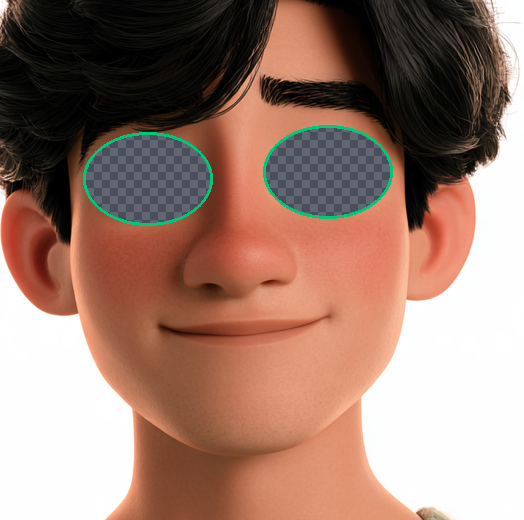
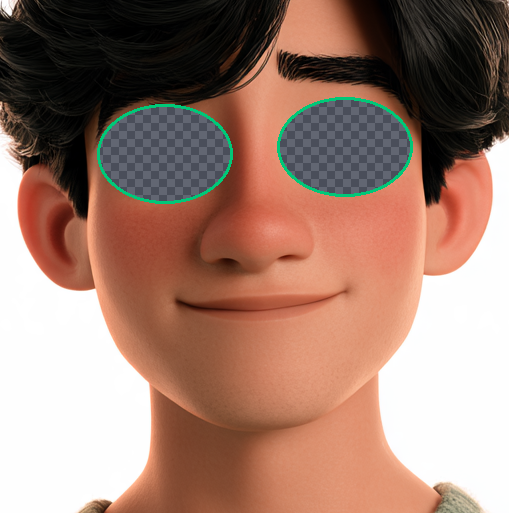
Add Rexy, a baby T. rex, and per-character voice pitch
Rexy's mouth area is two ellipses (his wide smile line and his jaw).
say() now takes a pitch, and the test page gives each character its
own pitch and speed. The erase examples show one combined outline and
crop to the character's face.

diff --git a/player/index.html b/player/index.html
@@ -41,6 +41,7 @@
     <select id="character" aria-label="Character">
       <option value="maya">Maya</option>
       <option value="mark">Mark</option>
+      <option value="rexy">Rexy</option>
     </select>
   </div>
   <div id="portrait"></div>
@@ -62,6 +63,8 @@
             line: "Kumusta ka? Ako si Maya. Hello! I'm Maya, and I'll help you practise Filipino." },
     mark: { name: "Mark", voice: /male|david|guy|mark|daniel/i,
             line: "Magandang araw! Ako si Mark. Good day! I'm Mark. Let's learn some Filipino together." },
+    rexy: { name: "Rexy", voice: /male|david|guy|mark|daniel/i, pitch: 1.6, rate: 1.05,
+            line: "Rawr! Ako si Rexy! Hi, I'm Rexy, and learning Filipino is dino-mite!" },
   };
   const container = document.getElementById("portrait");
   const select = document.getElementById("voice");
@@ -82,7 +85,8 @@
   function listVoices() {
     const voices = speechSynthesis.getVoices();
     const female = /female|zira|aria|jenny|samantha/i;
-    const preferred = (v) => (/^fil|^tl/i.test(v.lang) ? 0 : /^en/i.test(v.lang) && current.voice.test(v.name) && !(current === CHARACTERS.mark && female.test(v.name)) ? 1 : 2);
+    const wantsMale = current.voice.source.startsWith("male");
+    const preferred = (v) => (/^fil|^tl/i.test(v.lang) ? 0 : /^en/i.test(v.lang) && current.voice.test(v.name) && !(wantsMale && female.test(v.name)) ? 1 : 2);
     voices.sort((a, b) => preferred(a) - preferred(b));
     select.innerHTML = voices.map((v, i) => `<option value="${i}">${v.name} (${v.lang})</option>`).join("");
     select.voices = voices;
@@ -92,7 +96,8 @@
 
   document.getElementById("speak").onclick = () => {
     const voice = select.voices?.[select.value];
-    portrait.say(document.getElementById("text").value, { voice, lang: voice?.lang });
+    portrait.say(document.getElementById("text").value,
+                 { voice, lang: voice?.lang, pitch: current.pitch ?? 1, rate: current.rate ?? 1 });
   };
   document.getElementById("stop").onclick = () => portrait.stop();
 </script>

diff --git a/player/talking-portrait.js b/player/talking-portrait.js
@@ -79,11 +79,12 @@ export class TalkingPortrait {
   }
 
   // Approximate lip-sync from the text while the browser's own voice speaks it.
-  say(text, { lang = "en-US", voice = null, rate = 1 } = {}) {
+  say(text, { lang = "en-US", voice = null, rate = 1, pitch = 1 } = {}) {
     this.stop();
     const u = new SpeechSynthesisUtterance(text);
     u.lang = lang;
     u.rate = rate;
+    u.pitch = pitch;
     if (voice) u.voice = voice;
     const msPerLetter = 75 / rate;
     let letters = [];

diff --git a/scripts/draw_erase_examples.py b/scripts/draw_erase_examples.py
@@ -31,9 +31,16 @@ for name, boxes in regions.items():
     mask = Image.new("L", (SIZE, SIZE), 0)
     for box in boxes:
         ImageDraw.Draw(mask).ellipse(box, fill=255)
+    # Outline first, then the checker on top, so overlapping areas show one combined outline.
     img = base.copy()
-    img.paste(checker, (0, 0), mask)
     draw = ImageDraw.Draw(img)
     for box in boxes:
-        draw.ellipse(box, outline=(0, 200, 120, 255), width=3)
-    img.crop((250, 180, 774, 700)).convert("RGB").save(os.path.join(folder, f"example_erase_{name}.png"))
+        draw.ellipse([box[0] - 3, box[1] - 3, box[2] + 3, box[3] + 3], outline=(0, 200, 120, 255), width=4)
+    img.paste(checker, (0, 0), mask)
+    # Show the face around all the areas, with some margin for context.
+    every = [b for bs in regions.values() for b in bs]
+    left = max(0, min(b[0] for b in every) - 100)
+    top = max(0, min(b[1] for b in every) - 100)
+    right = min(SIZE, max(b[2] for b in every) + 100)
+    bottom = min(SIZE, max(b[3] for b in every) + 100)
+    img.crop((left, top, right, bottom)).convert("RGB").save(os.path.join(folder, f"example_erase_{name}.png"))
